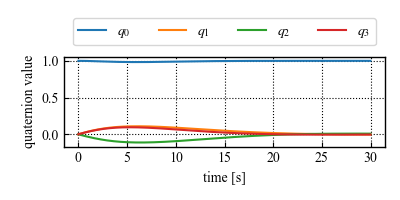
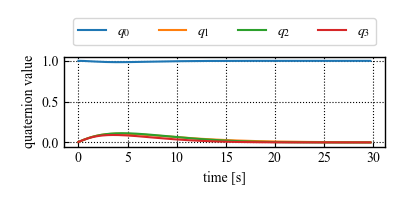
UPDATE: adp graph

diff --git a/dqn_2/train.py b/dqn_2/train.py
@@ -88,10 +88,9 @@ def evaluate():
     alpha = 0.5
     k = 0.8
     D = np.diag([4e-4,1,1,1,5.8e-4,1,1,1,5.2e-4])
-    max_steps = 3000
     dt = 0.01
     simutime = 30
-    simulation_iterations = int(simutime/dt)  # dt is 0.01
+    max_steps = int(simutime/dt)  # dt is 0.01
     th_e = np.array(env.inertia.flatten())
     with tqdm(range(max_steps),leave=False) as pbar:
         for step, ch in enumerate(pbar):
@@ -171,10 +170,10 @@ def evaluate():
     yoko = 4.0
     #------------------------------------------------
     plt.figure(figsize=(yoko,tate),dpi=100)
-    plt.plot(np.arange(simulation_iterations)*dt, q[:,0],label =r"$q_{0}$")
-    plt.plot(np.arange(simulation_iterations)*dt, q[:,1],label =r"$q_{1}$")
-    plt.plot(np.arange(simulation_iterations)*dt, q[:,2],label =r"$q_{2}$")
-    plt.plot(np.arange(simulation_iterations)*dt, q[:,3],label =r"$q_{3}$")
+    plt.plot(np.arange(max_steps)*dt, q[:,0],label =r"$q_{0}$")
+    plt.plot(np.arange(max_steps)*dt, q[:,1],label =r"$q_{1}$")
+    plt.plot(np.arange(max_steps)*dt, q[:,2],label =r"$q_{2}$")
+    plt.plot(np.arange(max_steps)*dt, q[:,3],label =r"$q_{3}$")
     # plt.title('Quaternion')
     plt.ylabel('quaternion value')
     plt.xlabel(r'time [s]')
@@ -185,10 +184,10 @@ def evaluate():
     plt.savefig(curr_dir + "/results/dqn_eval/plot_quat.png")
 
     plt.figure(figsize=(yoko,tate),dpi=100)
-    plt.plot(np.arange(simulation_iterations)*dt, qe[:,0],label =r"$q_{e0}$")
-    plt.plot(np.arange(simulation_iterations)*dt, qe[:,1],label =r"$q_{e1}$")
-    plt.plot(np.arange(simulation_iterations)*dt, qe[:,2],label =r"$q_{e2}$")
-    plt.plot(np.arange(simulation_iterations)*dt, qe[:,3],label =r"$q_{e3}$")
+    plt.plot(np.arange(max_steps)*dt, qe[:,0],label =r"$q_{e0}$")
+    plt.plot(np.arange(max_steps)*dt, qe[:,1],label =r"$q_{e1}$")
+    plt.plot(np.arange(max_steps)*dt, qe[:,2],label =r"$q_{e2}$")
+    plt.plot(np.arange(max_steps)*dt, qe[:,3],label =r"$q_{e3}$")
     # plt.title('Quaternion Error')
     plt.ylabel('quaternion error value')
     plt.xlabel(r'time [s]')
@@ -198,17 +197,17 @@ def evaluate():
     plt.savefig(curr_dir + "/results/dqn_eval/plot_quate_error.png")
 
     plt.figure(figsize=(yoko,tate),dpi=100)
-    plt.plot(np.arange(simulation_iterations)*dt, w[:,0],label =r"$\omega_{x}$")
-    plt.plot(np.arange(simulation_iterations)*dt, w[:,1],label =r"$\omega_{y}$")
+    plt.plot(np.arange(max_steps)*dt, w[:,0],label =r"$\omega_{x}$")
+    plt.plot(np.arange(max_steps)*dt, w[:,1],label =r"$\omega_{y}$")
     plt.legend(loc="lower center", bbox_to_anchor=(0.5,1.05), ncol=3)
     plt.tight_layout()
     plt.grid(True, color='k', linestyle='dotted', linewidth=0.8)
     plt.savefig(curr_dir + "/results/dqn_eval/plot_omega.png")
 
     plt.figure(figsize=(yoko,tate),dpi=100)
-    plt.plot(np.arange(simulation_iterations)*dt, inputs[:,0],label = r"$\tau_{x}$")
-    plt.plot(np.arange(simulation_iterations)*dt, inputs[:,1],label = r"$\tau_{y}$")
-    plt.plot(np.arange(simulation_iterations)*dt, inputs[:,2],label = r"$\tau_{z}$")
+    plt.plot(np.arange(max_steps)*dt, inputs[:,0],label = r"$\tau_{x}$")
+    plt.plot(np.arange(max_steps)*dt, inputs[:,1],label = r"$\tau_{y}$")
+    plt.plot(np.arange(max_steps)*dt, inputs[:,2],label = r"$\tau_{z}$")
     # plt.title('Action')
     plt.ylabel('Input torque [Nm]')
     plt.xlabel(r'time [s]')
@@ -218,12 +217,12 @@ def evaluate():
     plt.grid(True, color='k', linestyle='dotted', linewidth=0.8)
     plt.savefig(curr_dir + "/results/dqn_eval/plot_torque.png")
 
-    angle = np.array([np.rad2deg(env.dcm2euler(env.quaternion2dcm(q[i,:]))).tolist() for i in range(simulation_iterations-1)])
+    angle = np.array([np.rad2deg(env.dcm2euler(env.quaternion2dcm(q[i,:]))).tolist() for i in range(max_steps-1)])
     angle = angle.reshape([-1,3])
     plt.figure(figsize=(yoko,tate),dpi=100)
-    plt.plot(np.arange(simulation_iterations-1)*dt, angle[:,0],label = r"$\phi$")
-    plt.plot(np.arange(simulation_iterations-1)*dt, angle[:,1],label = r"$\theta$")
-    plt.plot(np.arange(simulation_iterations-1)*dt, angle[:,2],label = r"$\psi$")
+    plt.plot(np.arange(max_steps-1)*dt, angle[:,0],label = r"$\phi$")
+    plt.plot(np.arange(max_steps-1)*dt, angle[:,1],label = r"$\theta$")
+    plt.plot(np.arange(max_steps-1)*dt, angle[:,2],label = r"$\psi$")
     # plt.title('Action')
     plt.ylabel('angle [deg]')
     plt.xlabel(r'time [s]')
@@ -238,9 +237,9 @@ def evaluate():
     plt.savefig(curr_dir + "/results/dqn_eval/plot_k.png")
 
     plt.figure(figsize=(yoko,tate),dpi=100)
-    plt.plot(np.arange(simulation_iterations)*dt, D_hist[:,0],label = r"$D_{1}$")
-    plt.plot(np.arange(simulation_iterations)*dt, D_hist[:,1],label = r"$D_{2}$")
-    plt.plot(np.arange(simulation_iterations)*dt, D_hist[:,2],label = r"$D_{3}$")
+    plt.plot(np.arange(max_steps)*dt, D_hist[:,0],label = r"$D_{1}$")
+    plt.plot(np.arange(max_steps)*dt, D_hist[:,1],label = r"$D_{2}$")
+    plt.plot(np.arange(max_steps)*dt, D_hist[:,2],label = r"$D_{3}$")
     # plt.title('Action')
     plt.ylabel('d [deg]')
     plt.xlabel(r'time [s]')
@@ -251,7 +250,7 @@ def evaluate():
     plt.savefig(curr_dir + "/results/dqn_eval/plot_d.png")
 
     plt.figure(figsize=(yoko,tate),dpi=100)
-    plt.plot(np.arange(simulation_iterations)*dt, actions[:,0],label = r"$actions$")
+    plt.plot(np.arange(max_steps)*dt, actions[:,0],label = r"$actions$")
     # plt.title('Action')
     plt.ylabel('Selected action')
     plt.xlabel(r'time [s]')
@@ -291,9 +290,9 @@ def env_pd():
     actions = np.append(actions, action,axis=0)
 
     dt = 0.01
-    simulation_iterations = int(50/0.01) -1 # dt is 0.01
+    max_steps = int(50/0.01) -1 # dt is 0.01
 
-    for i in range(1, simulation_iterations):
+    for i in range(1, max_steps):
         action = np.squeeze(action)
         next_error_state, reward, done, next_state, _ = env.step(action)
         # env.render()
@@ -338,10 +337,10 @@ def env_pd():
     yoko = 6.0
     #------------------------------------------------
     plt.figure(figsize=(yoko,tate),dpi=100)
-    plt.plot(np.arange(simulation_iterations-1)*dt, q[:,0],label =r"$q_{0}$")
-    plt.plot(np.arange(simulation_iterations-1)*dt, q[:,1],label =r"$q_{1}$")
-    plt.plot(np.arange(simulation_iterations-1)*dt, q[:,2],label =r"$q_{2}$")
-    plt.plot(np.arange(simulation_iterations-1)*dt, q[:,3],label =r"$q_{3}$")
+    plt.plot(np.arange(max_steps-1)*dt, q[:,0],label =r"$q_{0}$")
+    plt.plot(np.arange(max_steps-1)*dt, q[:,1],label =r"$q_{1}$")
+    plt.plot(np.arange(max_steps-1)*dt, q[:,2],label =r"$q_{2}$")
+    plt.plot(np.arange(max_steps-1)*dt, q[:,3],label =r"$q_{3}$")
     # plt.title('Quaternion')
     plt.ylabel('quaternion value')
     plt.xlabel(r'time [s]')
@@ -352,10 +351,10 @@ def env_pd():
     plt.savefig(curr_dir + "/results/pd_test/plot_quat.png")
 
     plt.figure(figsize=(yoko,tate),dpi=100)
-    plt.plot(np.arange(simulation_iterations-1)*dt, qe[:,0],label =r"$q_{e0}$")
-    plt.plot(np.arange(simulation_iterations-1)*dt, qe[:,1],label =r"$q_{e1}$")
-    plt.plot(np.arange(simulation_iterations-1)*dt, qe[:,2],label =r"$q_{e2}$")
-    plt.plot(np.arange(simulation_iterations-1)*dt, qe[:,3],label =r"$q_{e3}$")
+    plt.plot(np.arange(max_steps-1)*dt, qe[:,0],label =r"$q_{e0}$")
+    plt.plot(np.arange(max_steps-1)*dt, qe[:,1],label =r"$q_{e1}$")
+    plt.plot(np.arange(max_steps-1)*dt, qe[:,2],label =r"$q_{e2}$")
+    plt.plot(np.arange(max_steps-1)*dt, qe[:,3],label =r"$q_{e3}$")
     # plt.title('Quaternion Error')
     plt.ylabel('quaternion error value')
     plt.xlabel(r'time [s]')
@@ -365,15 +364,15 @@ def env_pd():
     plt.savefig(curr_dir + "/results/pd_test/plot_quate_error.png")
 
     plt.figure(figsize=(yoko,tate),dpi=100)
-    plt.plot(np.arange(simulation_iterations-1)*dt, w[:,0],label =r"$\omega_{x}$")
-    plt.plot(np.arange(simulation_iterations-1)*dt, w[:,1],label =r"$\omega_{y}$")
-    plt.plot(np.arange(simulation_iterations-1)*dt, w[:,2],label =r"$\omega_{z}$")
+    plt.plot(np.arange(max_steps-1)*dt, w[:,0],label =r"$\omega_{x}$")
+    plt.plot(np.arange(max_steps-1)*dt, w[:,1],label =r"$\omega_{y}$")
+    plt.plot(np.arange(max_steps-1)*dt, w[:,2],label =r"$\omega_{z}$")
     plt.savefig(curr_dir + "/results/pd_test/plot_omega.png")
 
     plt.figure(figsize=(yoko,tate),dpi=100)
-    plt.plot(np.arange(simulation_iterations)*dt, actions[:,0],label = r"$\tau_{x}$")
-    plt.plot(np.arange(simulation_iterations)*dt, actions[:,1],label = r"$\tau_{y}$")
-    plt.plot(np.arange(simulation_iterations)*dt, actions[:,2],label = r"$\tau_{z}$")
+    plt.plot(np.arange(max_steps)*dt, actions[:,0],label = r"$\tau_{x}$")
+    plt.plot(np.arange(max_steps)*dt, actions[:,1],label = r"$\tau_{y}$")
+    plt.plot(np.arange(max_steps)*dt, actions[:,2],label = r"$\tau_{z}$")
     # plt.title('Action')
     plt.ylabel('Input torque [Nm]')
     plt.xlabel(r'time [s]')
@@ -383,12 +382,12 @@ def env_pd():
     plt.grid(True, color='k', linestyle='dotted', linewidth=0.8)
     plt.savefig(curr_dir + "/results/pd_test/plot_torque.png")
 
-    angle = np.array([np.rad2deg(env.dcm2euler(env.quaternion2dcm(q[i,:]))).tolist() for i in range(simulation_iterations-1)])
+    angle = np.array([np.rad2deg(env.dcm2euler(env.quaternion2dcm(q[i,:]))).tolist() for i in range(max_steps-1)])
     angle = angle.reshape([-1,3])
     plt.figure(figsize=(yoko,tate),dpi=100)
-    plt.plot(np.arange(simulation_iterations-1)*dt, angle[:,0],label = r"$\phi$")
-    plt.plot(np.arange(simulation_iterations-1)*dt, angle[:,1],label = r"$\theta$")
-    plt.plot(np.arange(simulation_iterations-1)*dt, angle[:,2],label = r"$\psi$")
+    plt.plot(np.arange(max_steps-1)*dt, angle[:,0],label = r"$\phi$")
+    plt.plot(np.arange(max_steps-1)*dt, angle[:,1],label = r"$\theta$")
+    plt.plot(np.arange(max_steps-1)*dt, angle[:,2],label = r"$\psi$")
     # plt.title('Action')
     plt.ylabel('angle [deg]')
     plt.xlabel(r'time [s]')
@@ -425,10 +424,11 @@ def env_adaptive():
     action = np.array([0,0,0]).reshape(1,3)
     actions = np.append(actions, action,axis=0)
 
-    dt = 0.01
-    simulation_iterations = int(30/0.01) -1 # dt is 0.01
+    dt = 0.1
+    simutime = 30
+    max_steps = int(simutime/dt) -1 # dt is 0.01
 
-    for i in range(1, simulation_iterations):
+    for i in range(1, max_steps):
         action = np.squeeze(action)
 
         # if i == 20/dt:
@@ -436,17 +436,16 @@ def env_adaptive():
         #     env.inertia_inv = np.linalg.inv(env.inertia)
         #     env.pre_state[-3:] += np.deg2rad([5,-5,5])
         #     env.state[-3:] += np.deg2rad([5,-5,5])
-        
         next_error_state, reward, done, next_state, _ = env.step(action)
         q=np.append(q,next_state[:4].reshape(1,-1),axis=0)
         qe=np.append(qe,next_error_state[:4].reshape(1,-1),axis=0)
-        w=np.append(w,next_error_state[8:11].reshape(1,-1),axis=0)
+        w=np.append(w,next_error_state[4:7].reshape(1,-1),axis=0)
         r += reward
     #----------------control law (Adaptive controller)-----------------------
-        W = next_error_state[8:11]
+        W = next_error_state[4:7]
         x1 = next_error_state[1:4]
         x2 = alpha*x1 + W
-        dqe = next_error_state[4:8]
+        dqe = env.quaternion_differential(W,next_error_state[0:4])
         Y = np.array([[alpha*dqe[1], alpha*dqe[2], alpha*dqe[3], W[0]*W[2], W[1]*W[2], W[2]*W[2], -W[0]*W[2], -W[1]*W[1], -W[1]*W[2]],
              [-W[0]*W[2], -W[1]*W[2], -W[2]*W[2], alpha*dqe[1], alpha*dqe[2], alpha*dqe[3], W[0]*W[0], W[0]*W[1], W[0]*W[2]],
               [W[0]*W[1], W[1]*W[1], W[1]*W[2], -W[0]*W[0], -W[0]*W[1], -W[0]*W[2], alpha*dqe[1], alpha*dqe[2], alpha*dqe[3]]])
@@ -485,11 +484,15 @@ def env_adaptive():
     tate = 2.0
     yoko = 4.0
     #------------------------------------------------
-    plt.figure(figsize=(yoko,tate),dpi=100)
-    plt.plot(np.arange(simulation_iterations-1)*dt, q[:,0],label =r"$q_{0}$")
-    plt.plot(np.arange(simulation_iterations-1)*dt, q[:,1],label =r"$q_{1}$")
-    plt.plot(np.arange(simulation_iterations-1)*dt, q[:,2],label =r"$q_{2}$")
-    plt.plot(np.arange(simulation_iterations-1)*dt, q[:,3],label =r"$q_{3}$")
+    plt.figure(figsize=(12,5),dpi=100)
+    plt.tight_layout()
+    plt.subplots_adjust(wspace=0.3, hspace=0.3)
+    # plt.figure(figsize=(yoko,tate),dpi=100)
+    plt.subplot(231)
+    plt.plot(np.arange(max_steps-1)*dt, q[:,0],label =r"$q_{0}$")
+    plt.plot(np.arange(max_steps-1)*dt, q[:,1],label =r"$q_{1}$")
+    plt.plot(np.arange(max_steps-1)*dt, q[:,2],label =r"$q_{2}$")
+    plt.plot(np.arange(max_steps-1)*dt, q[:,3],label =r"$q_{3}$")
     # plt.title('Quaternion')
     plt.ylabel('quaternion value')
     plt.xlabel(r'time [s]')
@@ -497,37 +500,40 @@ def env_adaptive():
     plt.tight_layout()
     plt.grid(True, color='k', linestyle='dotted', linewidth=0.8)
     # plt.grid(True)
-    plt.savefig(curr_dir + "/results/adap_test/plot_quat.png")
+    # plt.savefig(curr_dir+ "/results/adap_test/plot_quat.png")
 
-    plt.figure(figsize=(yoko,tate),dpi=100)
-    plt.plot(np.arange(simulation_iterations-1)*dt, qe[:,0],label =r"$q_{e0}$")
-    plt.plot(np.arange(simulation_iterations-1)*dt, qe[:,1],label =r"$q_{e1}$")
-    plt.plot(np.arange(simulation_iterations-1)*dt, qe[:,2],label =r"$q_{e2}$")
-    plt.plot(np.arange(simulation_iterations-1)*dt, qe[:,3],label =r"$q_{e3}$")
+    # plt.figure(figsize=(yoko,tate),dpi=100)
+    plt.subplot(232)
+    plt.plot(np.arange(max_steps-1)*dt, qe[:,0],label =r"$q_{e0}$")
+    plt.plot(np.arange(max_steps-1)*dt, qe[:,1],label =r"$q_{e1}$")
+    plt.plot(np.arange(max_steps-1)*dt, qe[:,2],label =r"$q_{e2}$")
+    plt.plot(np.arange(max_steps-1)*dt, qe[:,3],label =r"$q_{e3}$")
     # plt.title('Quaternion Error')
     plt.ylabel('quaternion error value')
     plt.xlabel(r'time [s]')
     plt.legend(loc="lower center", bbox_to_anchor=(0.5,1.05), ncol=4)
     plt.tight_layout()
     plt.grid(True, color='k', linestyle='dotted', linewidth=0.8)
-    plt.savefig(curr_dir + "/results/adap_test/plot_quate_error.png")
+    # plt.savefig(curr_dir + "/results/adap_test/plot_quate_error.png")
 
-    plt.figure(figsize=(yoko,tate),dpi=100)
-    plt.plot(np.arange(simulation_iterations-1)*dt, w[:,0],label =r"$\omega_{x}$")
-    plt.plot(np.arange(simulation_iterations-1)*dt, w[:,1],label =r"$\omega_{y}$")
-    plt.plot(np.arange(simulation_iterations-1)*dt, w[:,2],label =r"$\omega_{z}$")
+    # plt.figure(figsize=(yoko,tate),dpi=100)
+    plt.subplot(233)
+    plt.plot(np.arange(max_steps-1)*dt, w[:,0],label =r"$\omega_{x}$")
+    plt.plot(np.arange(max_steps-1)*dt, w[:,1],label =r"$\omega_{y}$")
+    plt.plot(np.arange(max_steps-1)*dt, w[:,2],label =r"$\omega_{z}$")
     # plt.title('Angular velocity')
     plt.ylabel('angular velocity [rad/s]')
     plt.xlabel(r'time [s]')
     plt.legend(loc="lower center", bbox_to_anchor=(0.5,1.05), ncol=3)
     plt.tight_layout()
     plt.grid(True, color='k', linestyle='dotted', linewidth=0.8)
-    plt.savefig(curr_dir + "/results/adap_test/plot_omega.png")
+    # plt.savefig(curr_dir + "/results/adap_test/plot_omega.png")
 
-    plt.figure(figsize=(yoko,tate),dpi=100)
-    plt.plot(np.arange(simulation_iterations)*dt, actions[:,0],label = r"$\tau_{x}$")
-    plt.plot(np.arange(simulation_iterations)*dt, actions[:,1],label = r"$\tau_{y}$")
-    plt.plot(np.arange(simulation_iterations)*dt, actions[:,2],label = r"$\tau_{z}$")
+    # plt.figure(figsize=(yoko,tate),dpi=100)
+    plt.subplot(234)
+    plt.plot(np.arange(max_steps)*dt, actions[:,0],label = r"$\tau_{x}$")
+    plt.plot(np.arange(max_steps)*dt, actions[:,1],label = r"$\tau_{y}$")
+    plt.plot(np.arange(max_steps)*dt, actions[:,2],label = r"$\tau_{z}$")
     # plt.title('Action')
     plt.ylabel('Input torque [Nm]')
     plt.xlabel(r'time [s]')
@@ -535,14 +541,15 @@ def env_adaptive():
     plt.tight_layout()
     # plt.ylim(-0.3, 0.25)
     plt.grid(True, color='k', linestyle='dotted', linewidth=0.8)
-    plt.savefig(curr_dir + "/results/adap_test/plot_torque.png")
+    # plt.savefig(curr_dir + "/results/adap_test/plot_torque.png")
 
-    angle = np.array([np.rad2deg(env.dcm2euler(env.quaternion2dcm(q[i,:]))).tolist() for i in range(simulation_iterations-1)])
+    angle = np.array([np.rad2deg(env.dcm2euler(env.quaternion2dcm(q[i,:]))).tolist() for i in range(max_steps-1)])
     angle = angle.reshape([-1,3])
-    plt.figure(figsize=(yoko,tate),dpi=100)
-    plt.plot(np.arange(simulation_iterations-1)*dt, angle[:,0],label = r"$\phi$")
-    plt.plot(np.arange(simulation_iterations-1)*dt, angle[:,1],label = r"$\theta$")
-    plt.plot(np.arange(simulation_iterations-1)*dt, angle[:,2],label = r"$\psi$")
+    # plt.figure(figsize=(yoko,tate),dpi=100)
+    plt.subplot(235)
+    plt.plot(np.arange(max_steps-1)*dt, angle[:,0],label = r"$\phi$")
+    plt.plot(np.arange(max_steps-1)*dt, angle[:,1],label = r"$\theta$")
+    plt.plot(np.arange(max_steps-1)*dt, angle[:,2],label = r"$\psi$")
     # plt.title('Action')
     plt.ylabel('angle [deg]')
     plt.xlabel(r'time [s]')
@@ -550,7 +557,9 @@ def env_adaptive():
     plt.tight_layout()
     # plt.ylim(-20, 20)
     plt.grid(True, color='k', linestyle='dotted', linewidth=0.8)
-    plt.savefig(curr_dir + "/results/adap_test/plot_angle.png")
+    # plt.savefig(curr_dir + "/results/adap_test/plot_angle.png")
+
+    plt.savefig(curr_dir + "/results/adap_test/results.png")
     plt.show()    
 
 if __name__ == '__main__':

diff --git a/dqn_2/utils.py b/dqn_2/utils.py
@@ -60,7 +60,7 @@ def mini_batch_train(env, agent, max_episodes, max_steps, batch_size):
 def mini_batch_train_adaptive(env, agent, max_episodes, max_steps, batch_size):
     episode_rewards = []
     counter = 0
-    k_delta = 0.01
+    k_delta = 0.05
     D_delta = 1e-5
     try:
         with tqdm(range(max_episodes),leave=False) as pbar:
